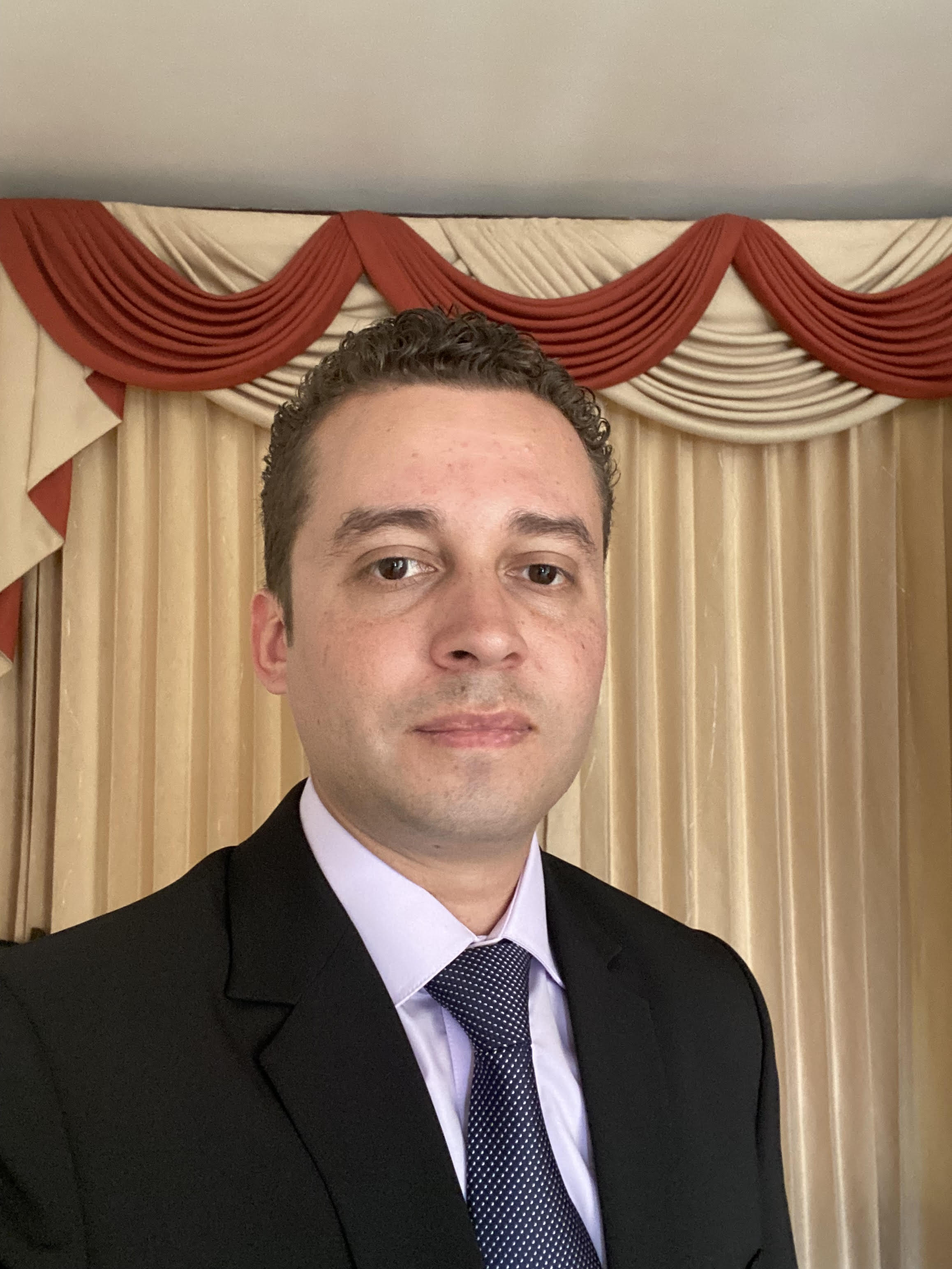
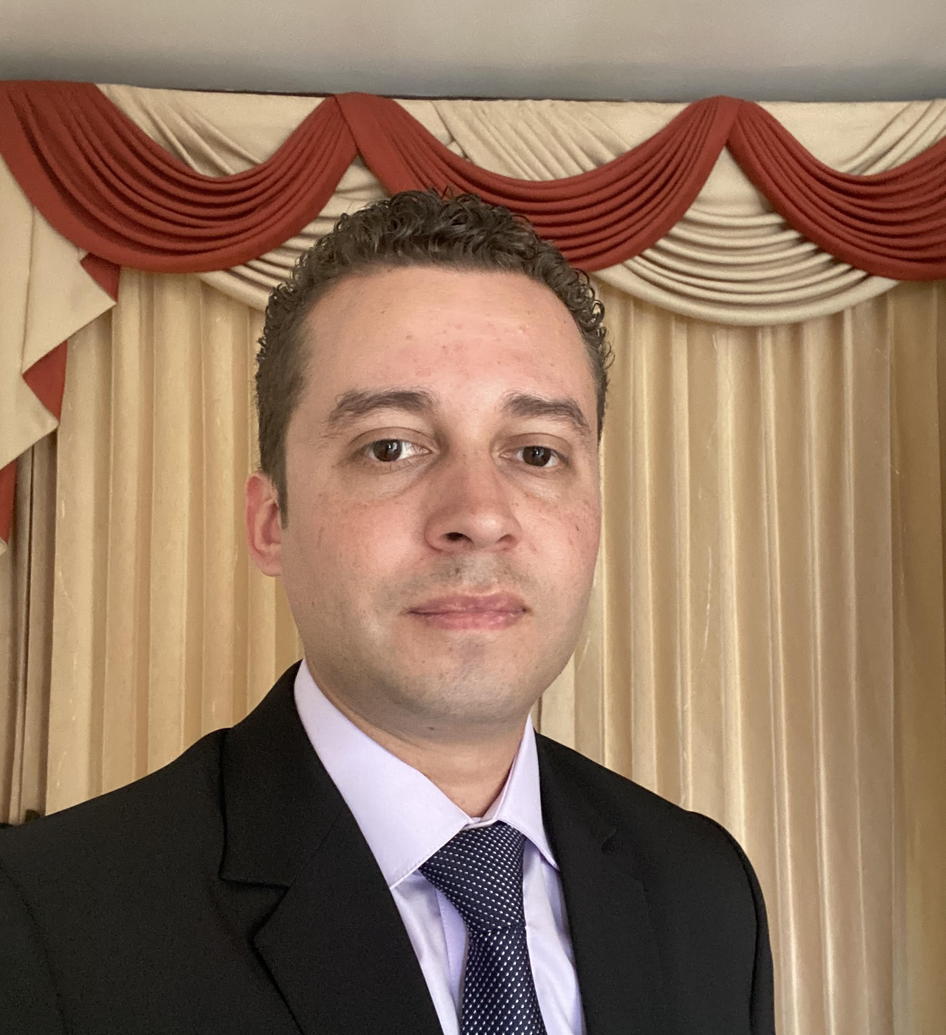
Update team and stop caching tokens

diff --git a/src/utils/api.ts b/src/utils/api.ts
@@ -31,8 +31,8 @@ async function getToken(): Promise<string | null> {
     if (!session || !session?.user) throw new Error('No session found');
 
     if (cachedToken && tokenExpirationTime && Date.now() < tokenExpirationTime) {
-        console.log('Using cached token')
-        return cachedToken;
+        //console.log('Using cached token')
+        //return cachedToken;
     }
 
     try {
@@ -49,8 +49,8 @@ async function getToken(): Promise<string | null> {
         const auth_response: AuthenticationResponse = await response.json();
 
         // Cache the token using server-provided expiration time
-        cachedToken = auth_response.access_token
-        tokenExpirationTime = Date.now() + (auth_response.expires_in * 1000) // Convert seconds to milliseconds
+        //cachedToken = auth_response.access_token
+        //tokenExpirationTime = Date.now() + (auth_response.expires_in * 1000) // Convert seconds to milliseconds
         return auth_response.access_token
 
     } catch (error) {

diff --git a/src/components/home/team/Carousel.tsx b/src/components/home/team/Carousel.tsx
@@ -72,7 +72,7 @@ export function TeamCarousel() {
       name: 'Ramon Castro Jr',
       title: t('shared.team.team_carousel.ramon_jr_title'),
       description: t('shared.team.team_carousel.ramon_jr_description'),
-      avatar: '/assets/team/ramon_jr.jpg'
+      avatar: '/assets/team/ramonjr.jpg'
     }
   ]
 
